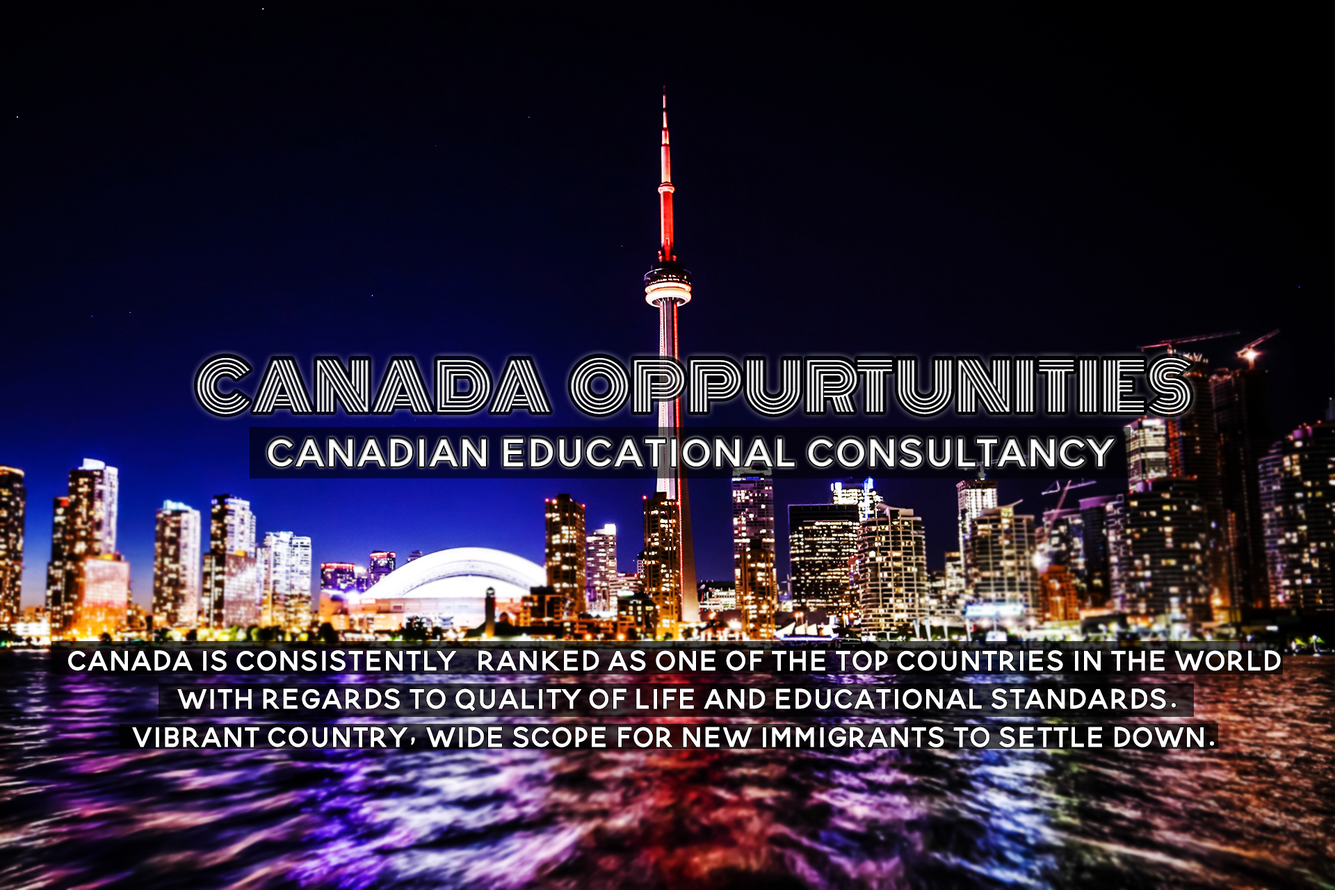
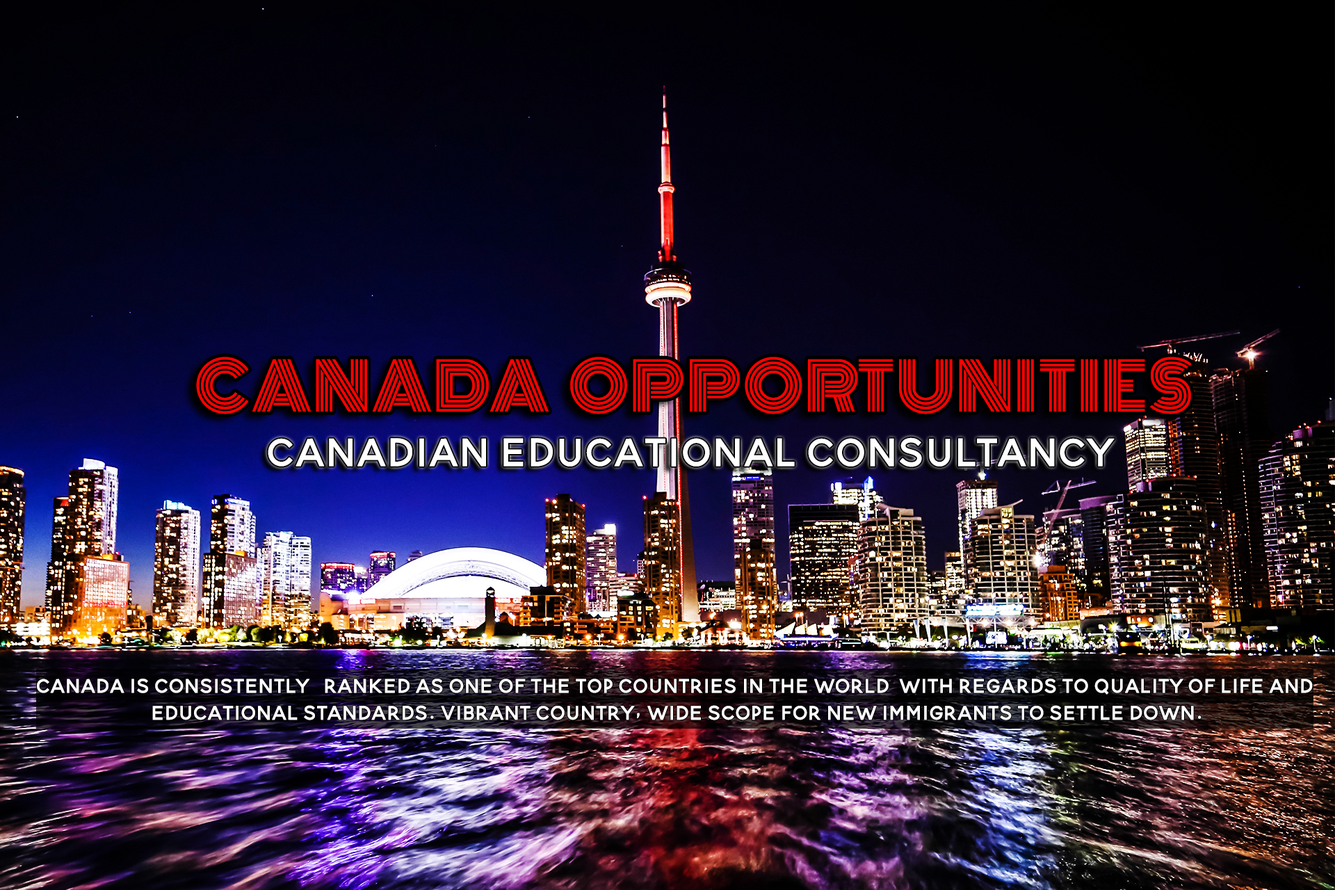
5th

Changed region(s): [[0.0, 0.375, 1.0, 1.0], [0.5938, 0.9375, 0.625, 0.9688]]

diff --git a/index.html b/index.html
@@ -477,7 +477,7 @@ return rv;
 
 				<!-- Navigation -->
 				<div class="collapse navbar-collapse align-items-center flex-sm-row" id="navBar295">
-					<ul class="landing-block-node-menu-list js-scroll-nav navbar-nav text-uppercase g-font-weight-700 g-font-size-11 g-pt-20 g-pt-0--lg ml-auto"><li class="landing-block-node-menu-list-item nav-item g-mx-15--lg g-mb-7 g-mb-0--lg">
+					<ul class="landing-block-node-menu-list js-scroll-nav navbar-nav text-uppercase g-font-weight-700 g-font-size-13 g-pt-20 g-pt-0--lg ml-auto"><li class="landing-block-node-menu-list-item nav-item g-mx-15--lg g-mb-7 g-mb-0--lg">
 							<a href="index.html#block403" class="landing-block-node-menu-list-item-link nav-link p-0" target="_self">About Us</a>
 						</li><li class="landing-block-node-menu-list-item nav-item g-mx-15--lg g-mb-7 g-mb-0--lg">
 							<a href="index.html#block405" class="landing-block-node-menu-list-item-link nav-link p-0" target="_self">Our Colleges</a>
@@ -514,9 +514,6 @@ return rv;
 					<div class="landing-block-node-card-container js-animation fadeIn container u-bg-overlay__inner g-mx-0 g-pa-0 g-max-width-800">
 
 
-						<h3 class="landing-block-node-card-title landing-semantic-title-image-big text-uppercase g-pos-rel g-line-height-1 g-font-weight-700 g-font-size-75 g-color-white g-mb-10">Canada</h3>
-
-						<div class="g-pos-rel g-line-height-1_2">
 							<div class="landing-block-node-card-text landing-semantic-text-image-medium g-mb-20 g-font-size-18 g-color-white-opacity-0_8" data-auto-font-scale=""><p>Consistently ranked as one of the top countries in the world with regards to quality of life and educational standards. Vibrant country, wide scope for new immigrants to settle down.<br /></p></div>
 							<div class="landing-block-node-card-button-container">
 
@@ -560,14 +557,14 @@ return rv;
 					Opportunities provides information regarding Canadian higher education, English exam preparation and
 					Canadian student visa application..</p>
 					<P>Our team of seasoned counselors with our motto to enable students to ‘step out without doubt’, have
-						created over 1000 Graduates along with our partners in Canada since our inception in 2016.</P>
-					<P>Easy access to the outside world for anybody heading forward in Canadian higher education.</P>
-					<P>Facilitating the admission and visa processing, post the acceptance of the application by the
-						partner institution in Canada.</P>
-					<P>Ensuring availability of only reputed and recognized Canadian Education partners for aspiring
-						students through stringent selection process.</P>
-						<p>
-							Our goal is to make it happen for the ones aiming to pursue Canadian education. The whole process can
+						created over 1000 Graduates along with our partners in Canada since our inception in 2016.
+					Easy access to the outside world for anybody heading forward in Canadian higher education.
+					Facilitating the admission and visa processing, post the acceptance of the application by the
+						partner institution in Canada.
+					Ensuring availability of only reputed and recognized Canadian Education partners for aspiring
+						students through stringent selection process.
+						
+Our goal is to make it happen for the ones aiming to pursue Canadian education. The whole process can
 be chaotic, and mind-numbing, that’s where we step in and make the whole experience of the process
 of studying in Canada simple, hassle-free and effortless.
 						</p>
